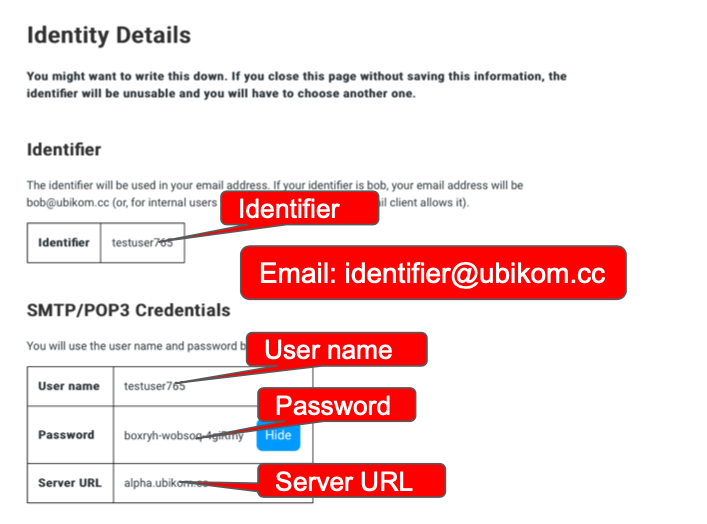
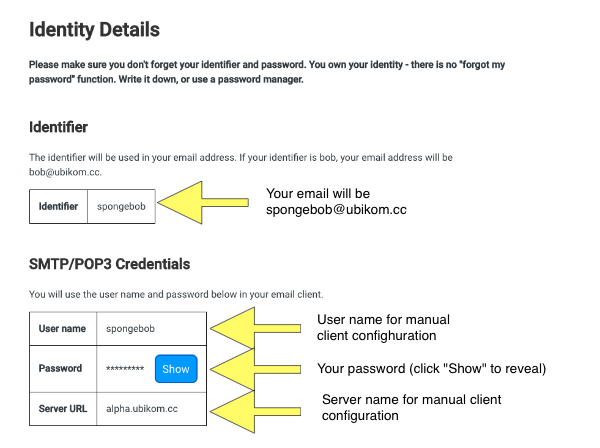
edit iOS client setup

diff --git a/html/ios-client/index.html b/html/ios-client/index.html
@@ -12,24 +12,33 @@
         <h1>iOS Client Setup</h1>
         <h2>Check Your Identity Details</h2>
         This is the information presented on your identity details page:
-        <p><img src="../client-common/identity-details.png"/></p>
-        You need to notice a few things here:
+        <p><img src="../client-common/identity-details.png"/>
+        Important things to notice are:
         <ul>
             <li>The identifier. Your email address will be your identifier plus "@ubikom.cc".
-                I.e. if your identifier is "bob", your email address will be "bob@ubikom.cc".
+                I.e. if your identifier is "spongebob", your email address will be "spongebob@ubikom.cc".
             </li>
             <li>
-                User name, same as your identifier. You will need it to set up connection
-                to email servers.
+                You password. You chose it, you should know what it is. If you don't, click "Show" button
+                to reveal it. 
             </li>
-            <li>
-                Password. It will be required (together with user name) to set up
-                connection to email servers.
-            </li>
+        </ul>
+        That's all you need if you use a client supporting automatic configuration (see below). You can also
+        use pretty much any client, even if they can't configure your email automatically. In this case, you
+        will also need the following:
+        <ul>
+            <li>Your user name. It's normally the same as your identifier.</li>
             <li>
                 Server URL. This is the URL you will use for SMTP and IMAP servers.
             </li>
         </ul>
+        </p>
+        <h2><a href="">Blue Mail</a></h2>
+        <p>
+            We recommend Blue Mail because it's a great email client, it works on any platform (mobile and
+            desktop), and it configures automatically using your email and password. Download Blue Mail for
+            iOS <a href="https://apps.apple.com/us/app/blue-mail-email-mailbox/id1063729305">here</a>.
+        </p>
         <h2>iOS Mail</h2>
         <p>iOS mail is the default iOS email program. If you have an iPhone/iPad, 
             chances are, you have it installed.
